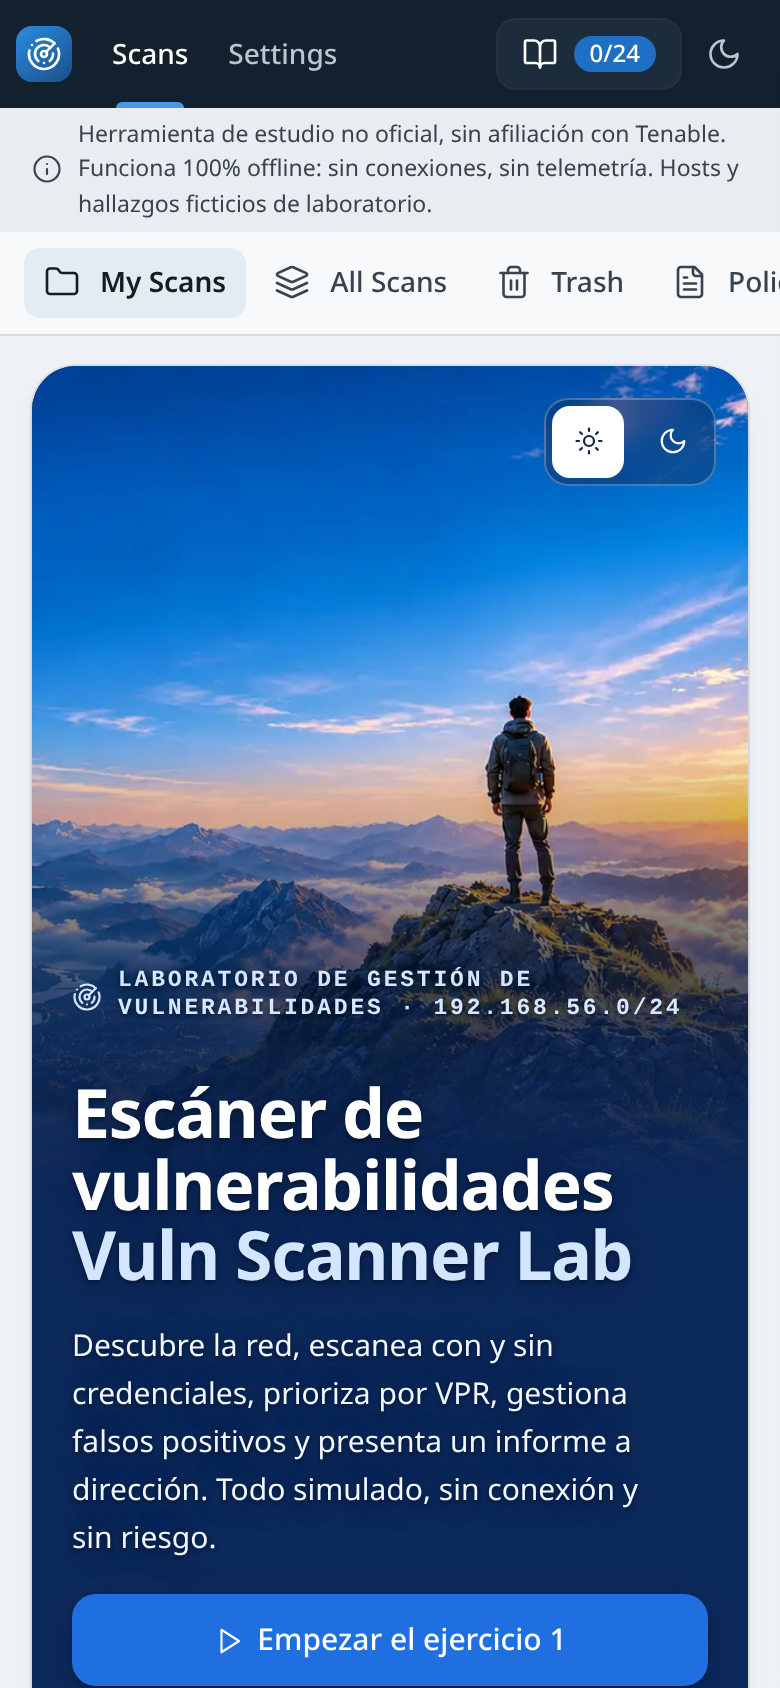
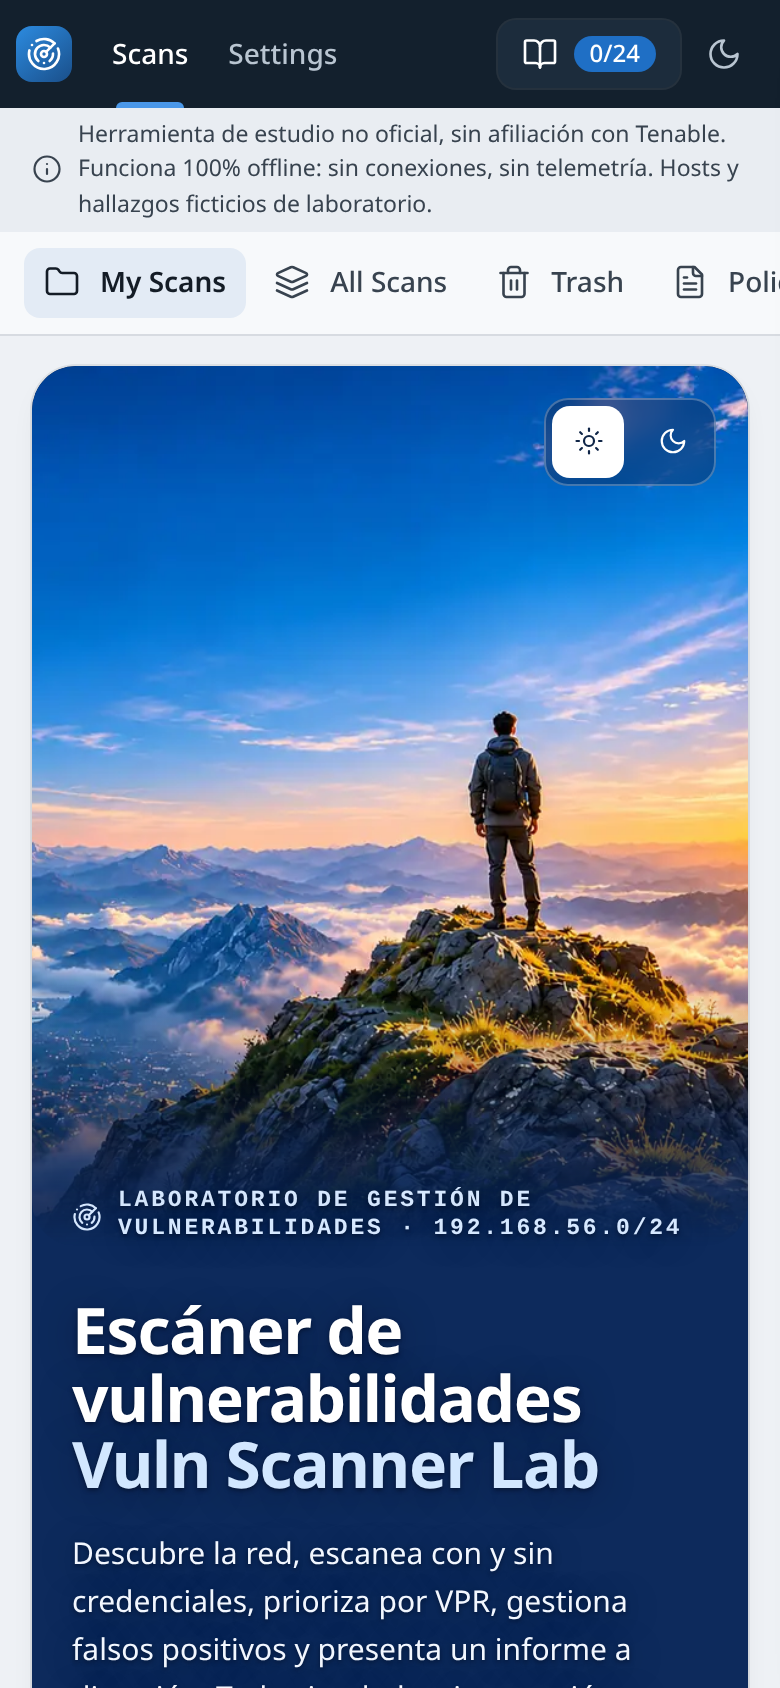
Hero: el hombre y la montaña se ven enteros en cualquier pantalla
La portada sigue la proporción de la imagen (como mucho 5:2) y crece con el texto; la imagen se ancla abajo a la derecha, así solo se recorta cielo y nunca los pies ni la cima. Hasta 900px la imagen va arriba completa. Corrige también que la barra superior ensanchara la página entre 641 y 900px.

diff --git a/index.html b/index.html
@@ -302,12 +302,14 @@ details.hint summary{cursor:pointer;font-weight:600}
 /* ===== Hero (portada) ===== */
 /* Imagen a sangre en toda la portada y el texto encima, a la izquierda, sobre el cielo.
    Sin velos blancos: solo un degradado azul oscuro y transparente en el borde izquierdo. Igual en claro y oscuro. */
-.hero{position:relative;overflow:hidden;border-radius:22px;background:#0d2a5c;box-shadow:var(--ring);min-height:460px;display:grid;grid-template-columns:minmax(0,1.1fr) minmax(0,1fr);isolation:isolate;margin-bottom:18px;color:#fff}
-.hero-art{position:absolute;inset:0;z-index:-2;background:#0d2a5c 64% 0%/cover no-repeat}
-.hero-art::after{content:"";position:absolute;inset:0;background:linear-gradient(90deg,rgba(5,20,50,.72) 0%,rgba(5,20,50,.64) 40%,rgba(5,20,50,.36) 60%,rgba(5,20,50,0) 78%)}
+.hero{position:relative;min-width:0;max-width:100%;border-radius:22px;background:#0d2a5c;box-shadow:var(--ring);aspect-ratio:5/2;display:grid;grid-template-columns:minmax(0,1.2fr) minmax(0,1fr);isolation:isolate;margin-bottom:18px;color:#fff}
+/* La portada sigue la proporción de la imagen (como mucho 5:2) y la imagen se ancla abajo a la derecha:
+   así nunca se cortan los pies del hombre ni la cima donde está, solo algo de cielo */
+.hero-art{position:absolute;inset:0;z-index:-2;border-radius:inherit;overflow:hidden;background:#0d2a5c 66% 78%/cover no-repeat}
+.hero-art::after{content:"";position:absolute;inset:0;background:linear-gradient(90deg,rgba(5,20,50,.74) 0%,rgba(5,20,50,.67) 44%,rgba(5,20,50,.34) 62%,rgba(5,20,50,0) 78%)}
 .hero-txt{padding:44px 12px 38px 44px;display:flex;flex-direction:column;justify-content:center;gap:16px;max-width:620px;text-shadow:0 1px 2px rgba(3,12,32,.6),0 2px 18px rgba(3,12,32,.35)}
 .hero .eyebrow{display:flex;align-items:center;gap:8px;font:600 11.5px/1.2 var(--mono);letter-spacing:1.4px;text-transform:uppercase;color:#d6e8ff}
-.hero h1{font-size:clamp(34px,4.6vw,58px);line-height:1.04;letter-spacing:-.02em;font-weight:700;margin:0;color:#fff}
+.hero h1{font-size:clamp(32px,3.7vw,58px);line-height:1.04;letter-spacing:-.02em;font-weight:700;margin:0;color:#fff}
 .hero h1 .l2{display:block;color:#d2e7ff}
 .hero h1 .w{display:inline-block;overflow:hidden;vertical-align:bottom;padding-bottom:.06em}
 .hero h1 .w>span{display:inline-block;animation:heroWord .6s cubic-bezier(.2,0,0,1) both;animation-delay:calc(var(--i)*70ms)}
@@ -339,12 +341,12 @@ details.hint summary{cursor:pointer;font-weight:600}
 .hstat .meter{margin-top:8px}
 .sec-t{display:flex;align-items:center;gap:8px;font-size:16px;margin:0 0 12px}
 @media (max-width:1100px){.hstats{grid-template-columns:repeat(2,minmax(0,1fr))}}
-@media (max-width:760px){
- /* Móvil: la imagen arriba, detrás del texto, y se funde hacia abajo en azul oscuro (sin blanco) */
- .hero{grid-template-columns:1fr;min-height:0;align-items:end}
- .hero-art{inset:0 0 auto 0;height:420px;background-position:64% center;-webkit-mask-image:linear-gradient(180deg,#000 58%,transparent 100%);mask-image:linear-gradient(180deg,#000 58%,transparent 100%)}
- .hero-art::after{background:linear-gradient(180deg,rgba(5,20,50,0) 45%,rgba(5,20,50,.55) 75%,rgba(5,20,50,.8) 100%)}
- .hero-txt{padding:290px 20px 24px;max-width:none}
+@media (max-width:900px){
+ /* Móvil y tablet: la imagen arriba, detrás del texto, y se funde hacia abajo en azul oscuro (sin blanco) */
+ .hero{grid-template-columns:minmax(0,1fr);min-height:0;aspect-ratio:auto;align-items:end}
+ .hero-art{inset:0 0 auto 0;height:440px;background-position:66% 70%;-webkit-mask-image:linear-gradient(180deg,#000 80%,transparent 100%);mask-image:linear-gradient(180deg,#000 80%,transparent 100%)}
+ .hero-art::after{background:linear-gradient(180deg,rgba(5,20,50,0) 70%,rgba(5,20,50,.6) 100%)}
+ .hero-txt{padding:400px 20px 24px;max-width:none}
  .hero .lead{font-size:15px}
  .hero-cta .btn{flex:1 1 auto;justify-content:center}
  .hstats{grid-template-columns:1fr 1fr;gap:10px}
@@ -353,6 +355,9 @@ details.hint summary{cursor:pointer;font-weight:600}
 }
 @media (max-width:640px){body.hero-vis .coach{display:none}}
 @media (prefers-reduced-motion:reduce){.hero h1 .w>span{animation:none}}
+/* Tablet (641-900px): la barra superior ya no ensancha la página */
+.app{grid-template-columns:minmax(0,1fr)}
+@media (max-width:900px){.brand small,.user span,.trainbtn .lbl{display:none}.topbar{overflow:hidden}}
 </style>
 </head>
 <body>

diff --git a/hero/hero.css b/hero/hero.css
@@ -1,12 +1,14 @@
 /* ===== Hero (portada) ===== */
 /* Imagen a sangre en toda la portada y el texto encima, a la izquierda, sobre el cielo.
    Sin velos blancos: solo un degradado azul oscuro y transparente en el borde izquierdo. Igual en claro y oscuro. */
-.hero{position:relative;overflow:hidden;border-radius:22px;background:#0d2a5c;box-shadow:var(--ring);min-height:460px;display:grid;grid-template-columns:minmax(0,1.1fr) minmax(0,1fr);isolation:isolate;margin-bottom:18px;color:#fff}
-.hero-art{position:absolute;inset:0;z-index:-2;background:#0d2a5c 64% 0%/cover no-repeat}
-.hero-art::after{content:"";position:absolute;inset:0;background:linear-gradient(90deg,rgba(5,20,50,.72) 0%,rgba(5,20,50,.64) 40%,rgba(5,20,50,.36) 60%,rgba(5,20,50,0) 78%)}
+.hero{position:relative;min-width:0;max-width:100%;border-radius:22px;background:#0d2a5c;box-shadow:var(--ring);aspect-ratio:5/2;display:grid;grid-template-columns:minmax(0,1.2fr) minmax(0,1fr);isolation:isolate;margin-bottom:18px;color:#fff}
+/* La portada sigue la proporción de la imagen (como mucho 5:2) y la imagen se ancla abajo a la derecha:
+   así nunca se cortan los pies del hombre ni la cima donde está, solo algo de cielo */
+.hero-art{position:absolute;inset:0;z-index:-2;border-radius:inherit;overflow:hidden;background:#0d2a5c 66% 78%/cover no-repeat}
+.hero-art::after{content:"";position:absolute;inset:0;background:linear-gradient(90deg,rgba(5,20,50,.74) 0%,rgba(5,20,50,.67) 44%,rgba(5,20,50,.34) 62%,rgba(5,20,50,0) 78%)}
 .hero-txt{padding:44px 12px 38px 44px;display:flex;flex-direction:column;justify-content:center;gap:16px;max-width:620px;text-shadow:0 1px 2px rgba(3,12,32,.6),0 2px 18px rgba(3,12,32,.35)}
 .hero .eyebrow{display:flex;align-items:center;gap:8px;font:600 11.5px/1.2 var(--mono);letter-spacing:1.4px;text-transform:uppercase;color:#d6e8ff}
-.hero h1{font-size:clamp(34px,4.6vw,58px);line-height:1.04;letter-spacing:-.02em;font-weight:700;margin:0;color:#fff}
+.hero h1{font-size:clamp(32px,3.7vw,58px);line-height:1.04;letter-spacing:-.02em;font-weight:700;margin:0;color:#fff}
 .hero h1 .l2{display:block;color:#d2e7ff}
 .hero h1 .w{display:inline-block;overflow:hidden;vertical-align:bottom;padding-bottom:.06em}
 .hero h1 .w>span{display:inline-block;animation:heroWord .6s cubic-bezier(.2,0,0,1) both;animation-delay:calc(var(--i)*70ms)}
@@ -38,12 +40,12 @@
 .hstat .meter{margin-top:8px}
 .sec-t{display:flex;align-items:center;gap:8px;font-size:16px;margin:0 0 12px}
 @media (max-width:1100px){.hstats{grid-template-columns:repeat(2,minmax(0,1fr))}}
-@media (max-width:760px){
- /* Móvil: la imagen arriba, detrás del texto, y se funde hacia abajo en azul oscuro (sin blanco) */
- .hero{grid-template-columns:1fr;min-height:0;align-items:end}
- .hero-art{inset:0 0 auto 0;height:420px;background-position:64% center;-webkit-mask-image:linear-gradient(180deg,#000 58%,transparent 100%);mask-image:linear-gradient(180deg,#000 58%,transparent 100%)}
- .hero-art::after{background:linear-gradient(180deg,rgba(5,20,50,0) 45%,rgba(5,20,50,.55) 75%,rgba(5,20,50,.8) 100%)}
- .hero-txt{padding:290px 20px 24px;max-width:none}
+@media (max-width:900px){
+ /* Móvil y tablet: la imagen arriba, detrás del texto, y se funde hacia abajo en azul oscuro (sin blanco) */
+ .hero{grid-template-columns:minmax(0,1fr);min-height:0;aspect-ratio:auto;align-items:end}
+ .hero-art{inset:0 0 auto 0;height:440px;background-position:66% 70%;-webkit-mask-image:linear-gradient(180deg,#000 80%,transparent 100%);mask-image:linear-gradient(180deg,#000 80%,transparent 100%)}
+ .hero-art::after{background:linear-gradient(180deg,rgba(5,20,50,0) 70%,rgba(5,20,50,.6) 100%)}
+ .hero-txt{padding:400px 20px 24px;max-width:none}
  .hero .lead{font-size:15px}
  .hero-cta .btn{flex:1 1 auto;justify-content:center}
  .hstats{grid-template-columns:1fr 1fr;gap:10px}
@@ -52,3 +54,6 @@
 }
 @media (max-width:640px){body.hero-vis .coach{display:none}}
 @media (prefers-reduced-motion:reduce){.hero h1 .w>span{animation:none}}
+/* Tablet (641-900px): la barra superior ya no ensancha la página */
+.app{grid-template-columns:minmax(0,1fr)}
+@media (max-width:900px){.brand small,.user span,.trainbtn .lbl{display:none}.topbar{overflow:hidden}}
